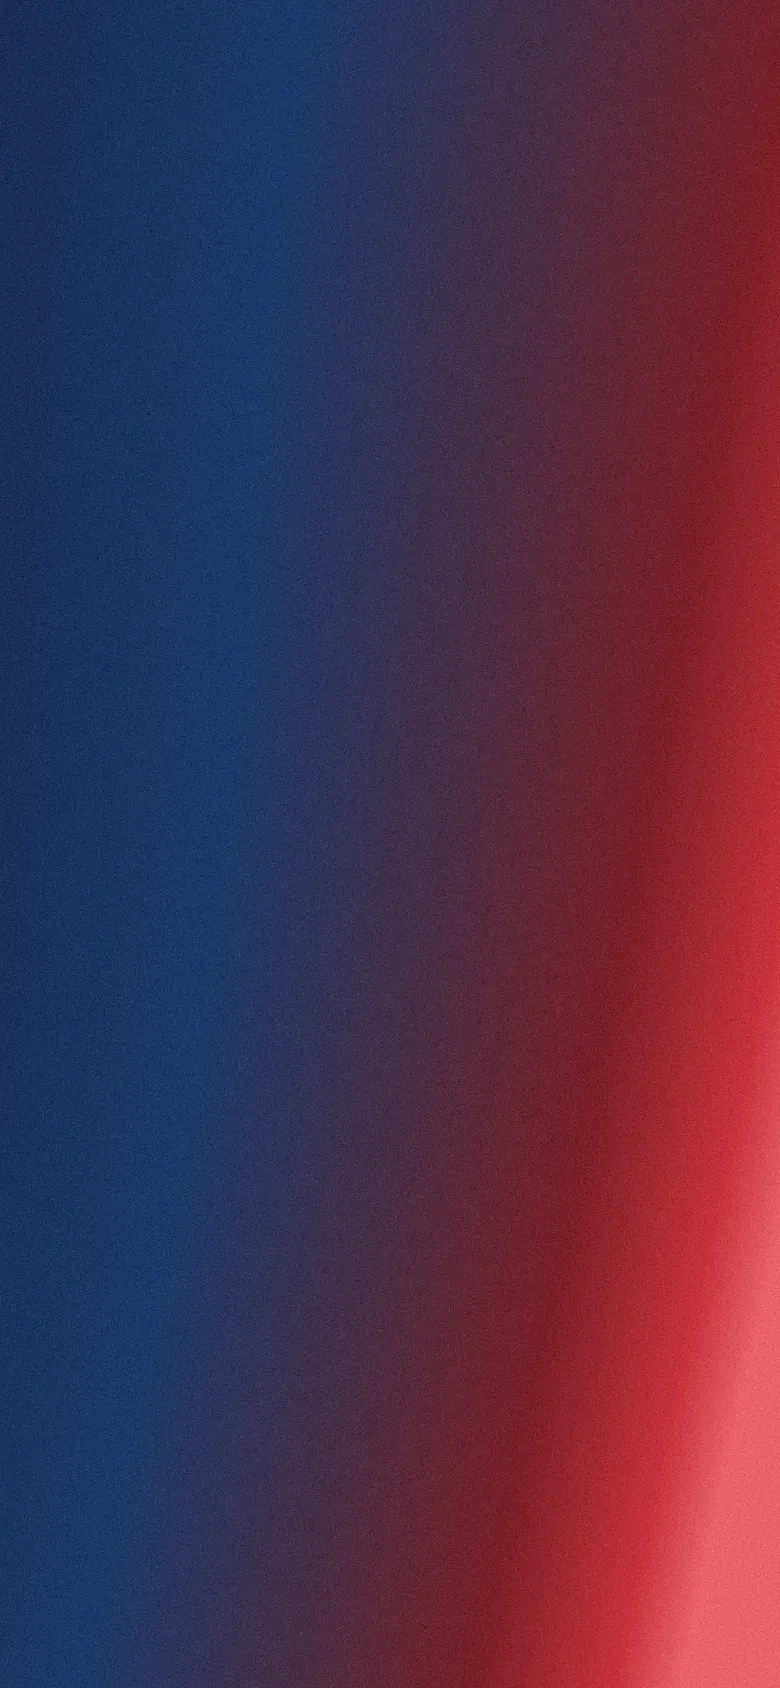
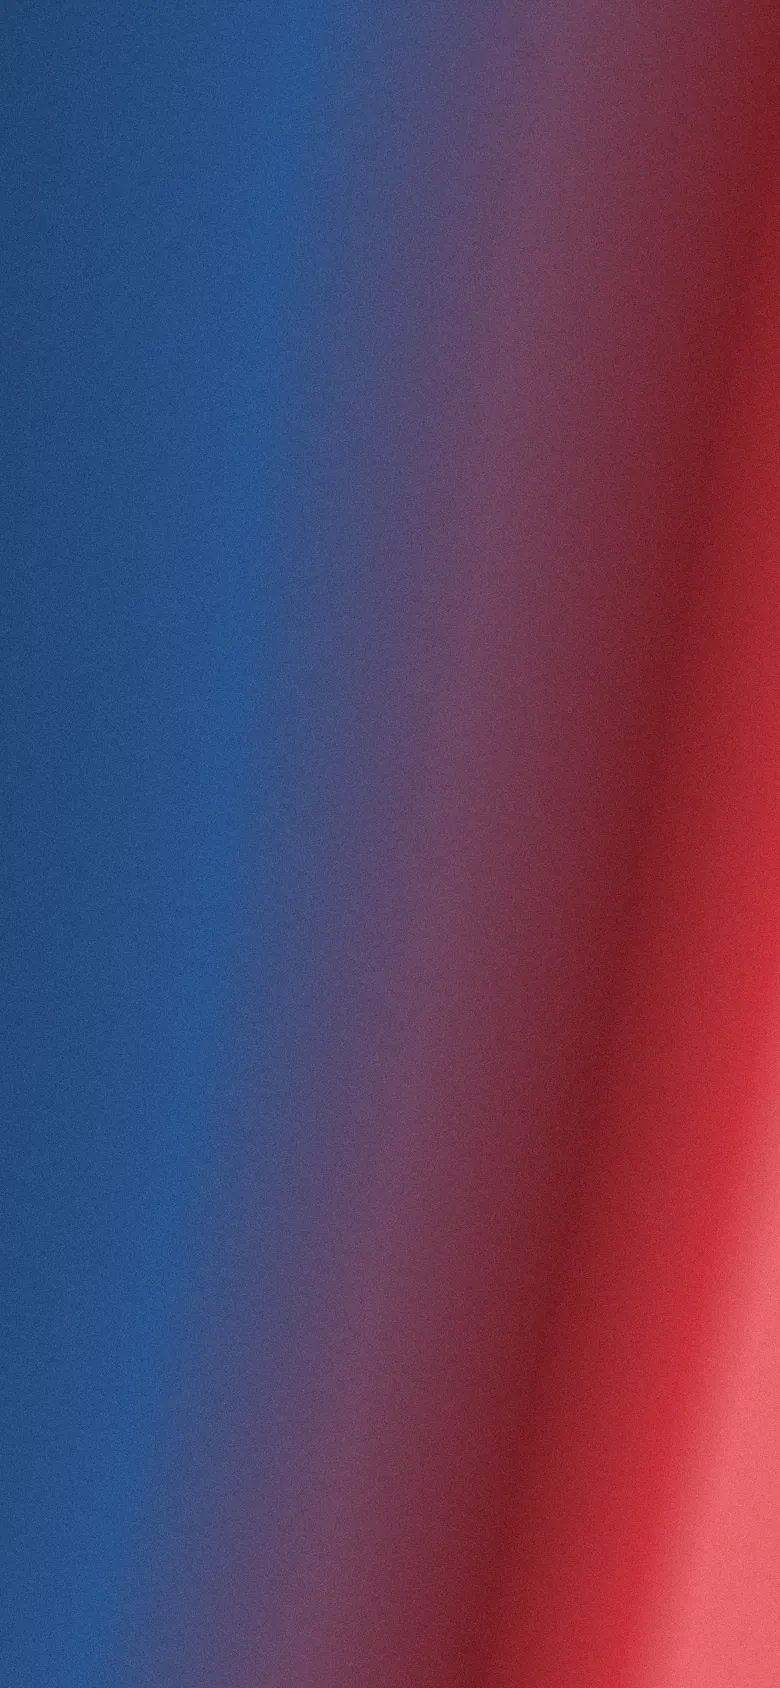
feat(landing): hero regenerado con la tríada Tinta leída del token
Set completo a su resolución final (m1x/m2x/m3x a calidad 76, d1x/d2x, og-hero),
escala #1F3D67 #2B558F #6E4560 #7A1F27 #C8323C #E8646D. El color de respaldo del
hero (landing.css) y del OG pasa al 0 % nuevo (#1F3D67). Banding verificado en
el tramo azul → intermedio del m2x: 4.841 tonos. Pesos: 30 / 118 / 179 / 121 /
464 KB y 136 KB el OG.

diff --git a/src/components/landing-v14/landing.css b/src/components/landing-v14/landing.css
@@ -181,7 +181,9 @@ html:has(.lv-root) .lv-input { font-size: 19px !important; }
    el WebP pese poco y no bandee). */
 .lv-fondo { position: absolute; inset: 0; z-index: 0; display: block; }
 .lv-fondo img { width: 100%; height: 100%; object-fit: cover; object-position: center; display: block; }
-.lv-fondo-hero { background: #16264A; }
+/* color de respaldo mientras carga la textura = 0 % de la escala del hero, derivada del
+   token (`python tools/texturas/generar.py escala`); si cambia la tríada, cambia acá */
+.lv-fondo-hero { background: #1F3D67; }
 .lv-fondo-hero::after {
   content: ""; position: absolute; inset: 0; pointer-events: none;
   background-image: url("/landing/grano-256.png"); background-size: 256px;

diff --git a/src/app/opengraph-image.tsx b/src/app/opengraph-image.tsx
@@ -58,7 +58,7 @@ export default async function OgImage() {
           display: "flex",
           flexDirection: "column",
           position: "relative",
-          backgroundColor: "#16264A",
+          backgroundColor: "#1F3D67", // 0 % de la escala del hero, derivada del token (generar.py escala)
         }}
       >
         {/* eslint-disable-next-line @next/next/no-img-element */}
